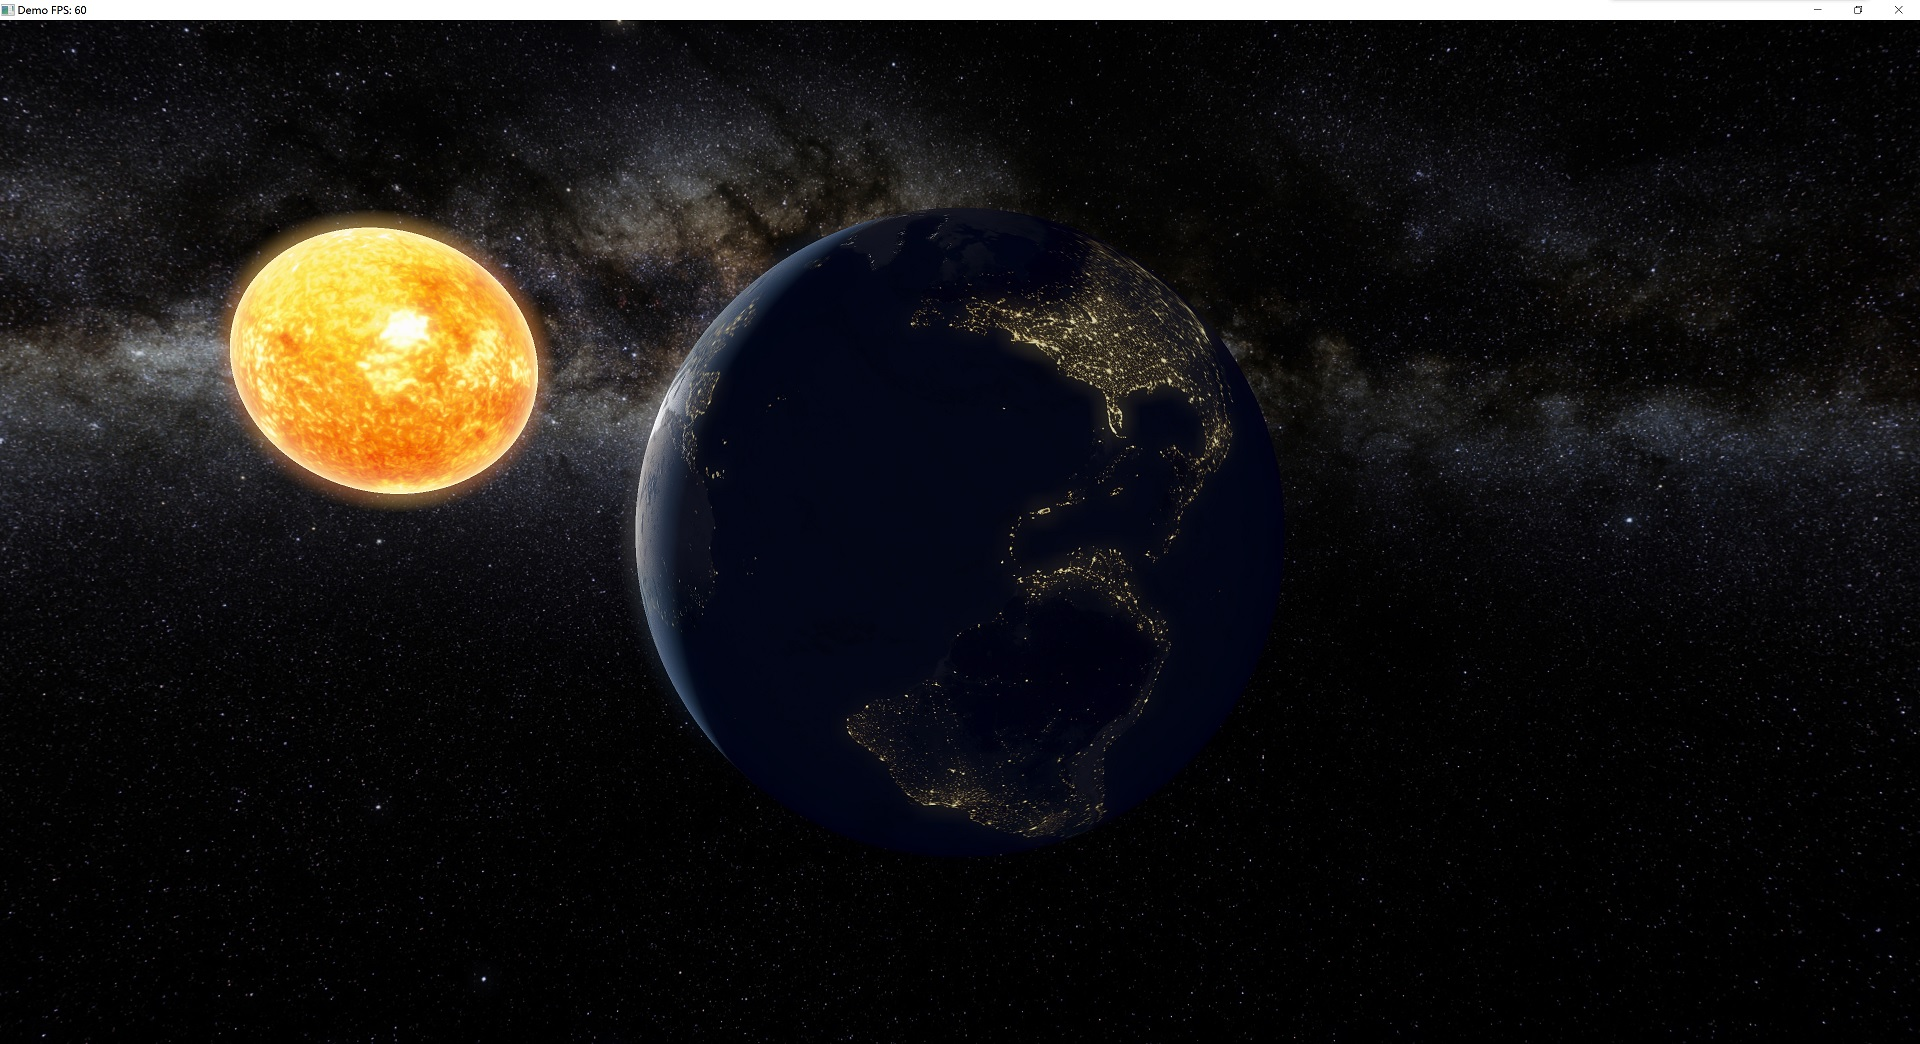
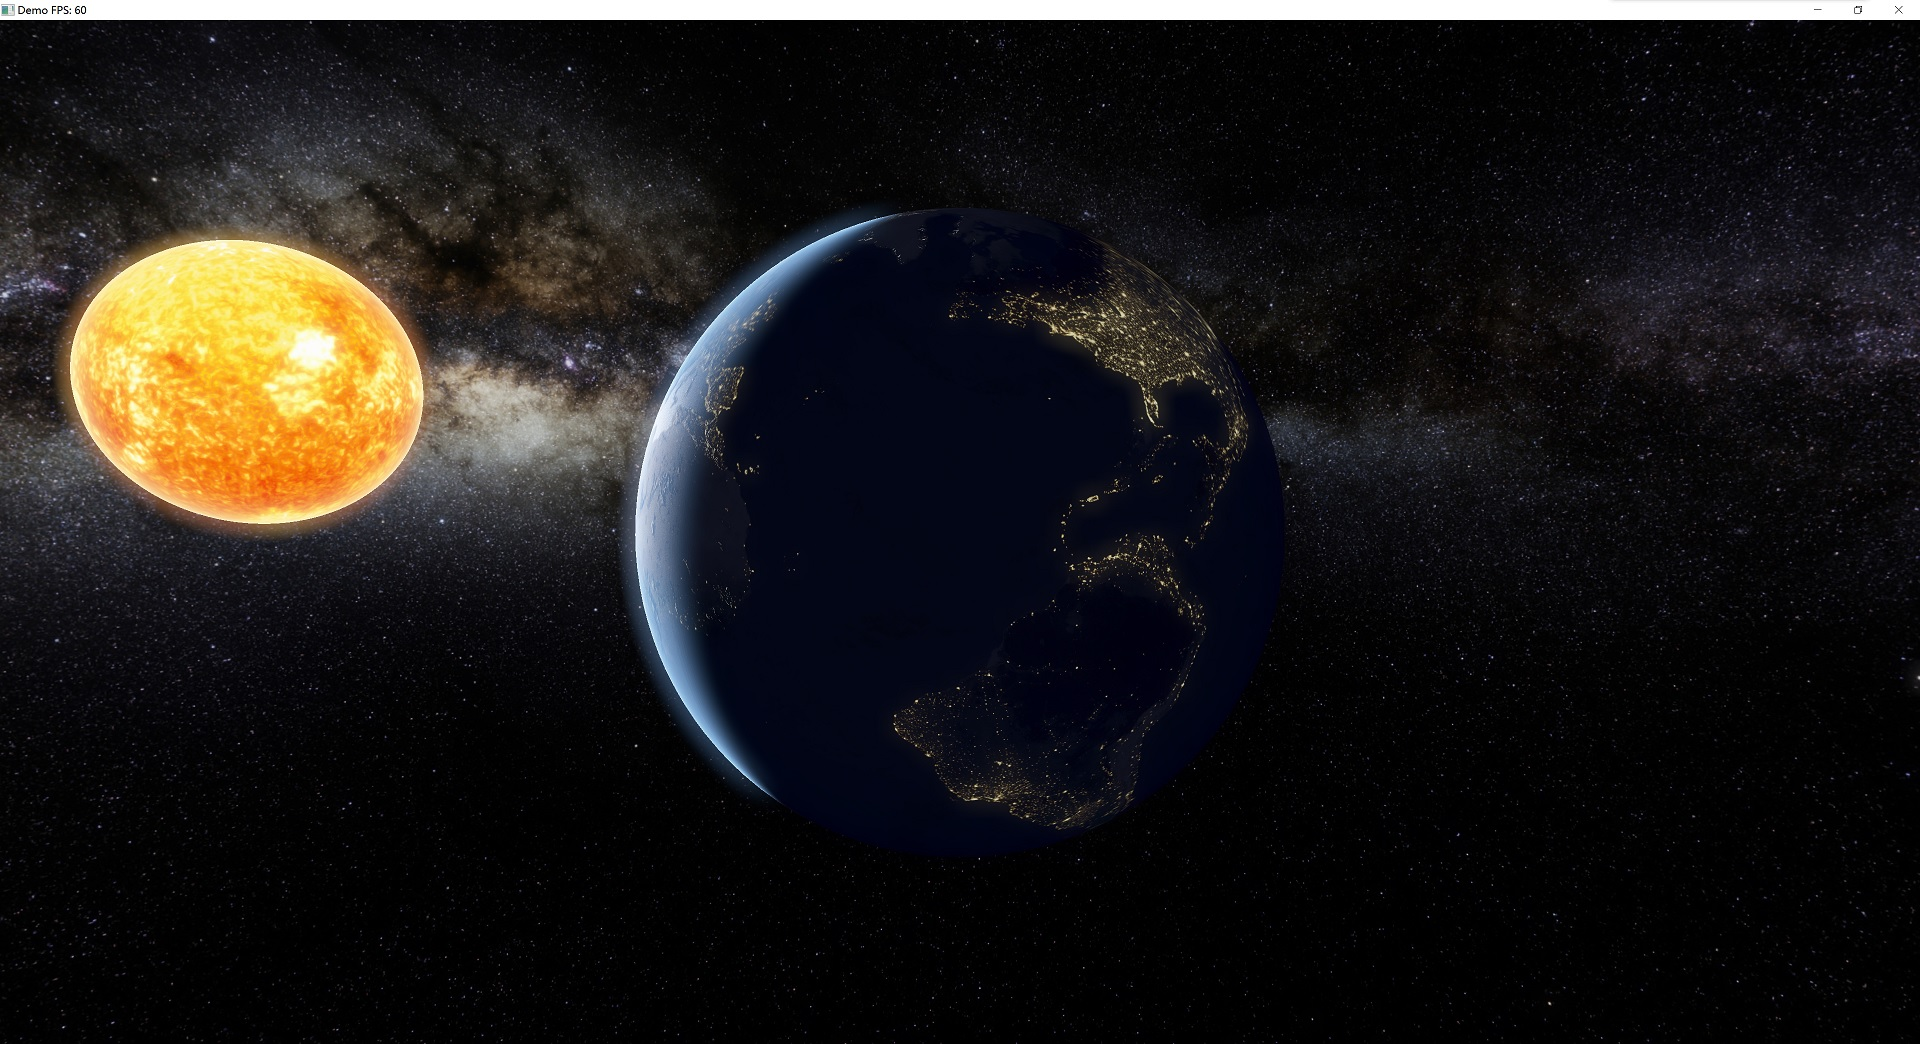
final tweak

diff --git a/src/main.cpp b/src/main.cpp
@@ -124,8 +124,8 @@ private:
         earth->ShaderUniform("bumpiness")    = 10.0f;
         earth->ShaderUniform("atmosphereThickness") = 0.05f;
         earth->ShaderUniform("lightSamples")        = 32;
-        earth->ShaderUniform("scatterViewSamples")  = 20;
-        earth->ShaderUniform("scatterLightSamples") = 10;
+        earth->ShaderUniform("scatterViewSamples")  = 24;
+        earth->ShaderUniform("scatterLightSamples") = 12;
         earth->SetNeedNormalMatrix(true);
         auto earthAnimFunc = [=](float t) {
             glm::mat4 m = glm::identity<glm::mat4>();
